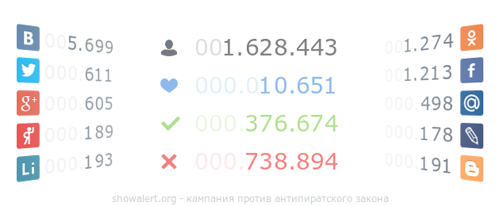
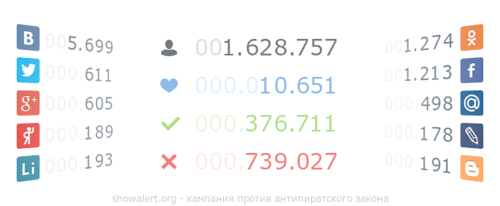
some updates

Changed region(s): [[0.54, 0.7282, 0.69, 0.8447], [0.57, 0.5534, 0.69, 0.6408], [0.6, 0.1748, 0.69, 0.2913]]

diff --git a/votes.js b/votes.js
@@ -1,1 +1,1 @@
-window.lk.votes(25300)
+window.lk.votes(25329)
